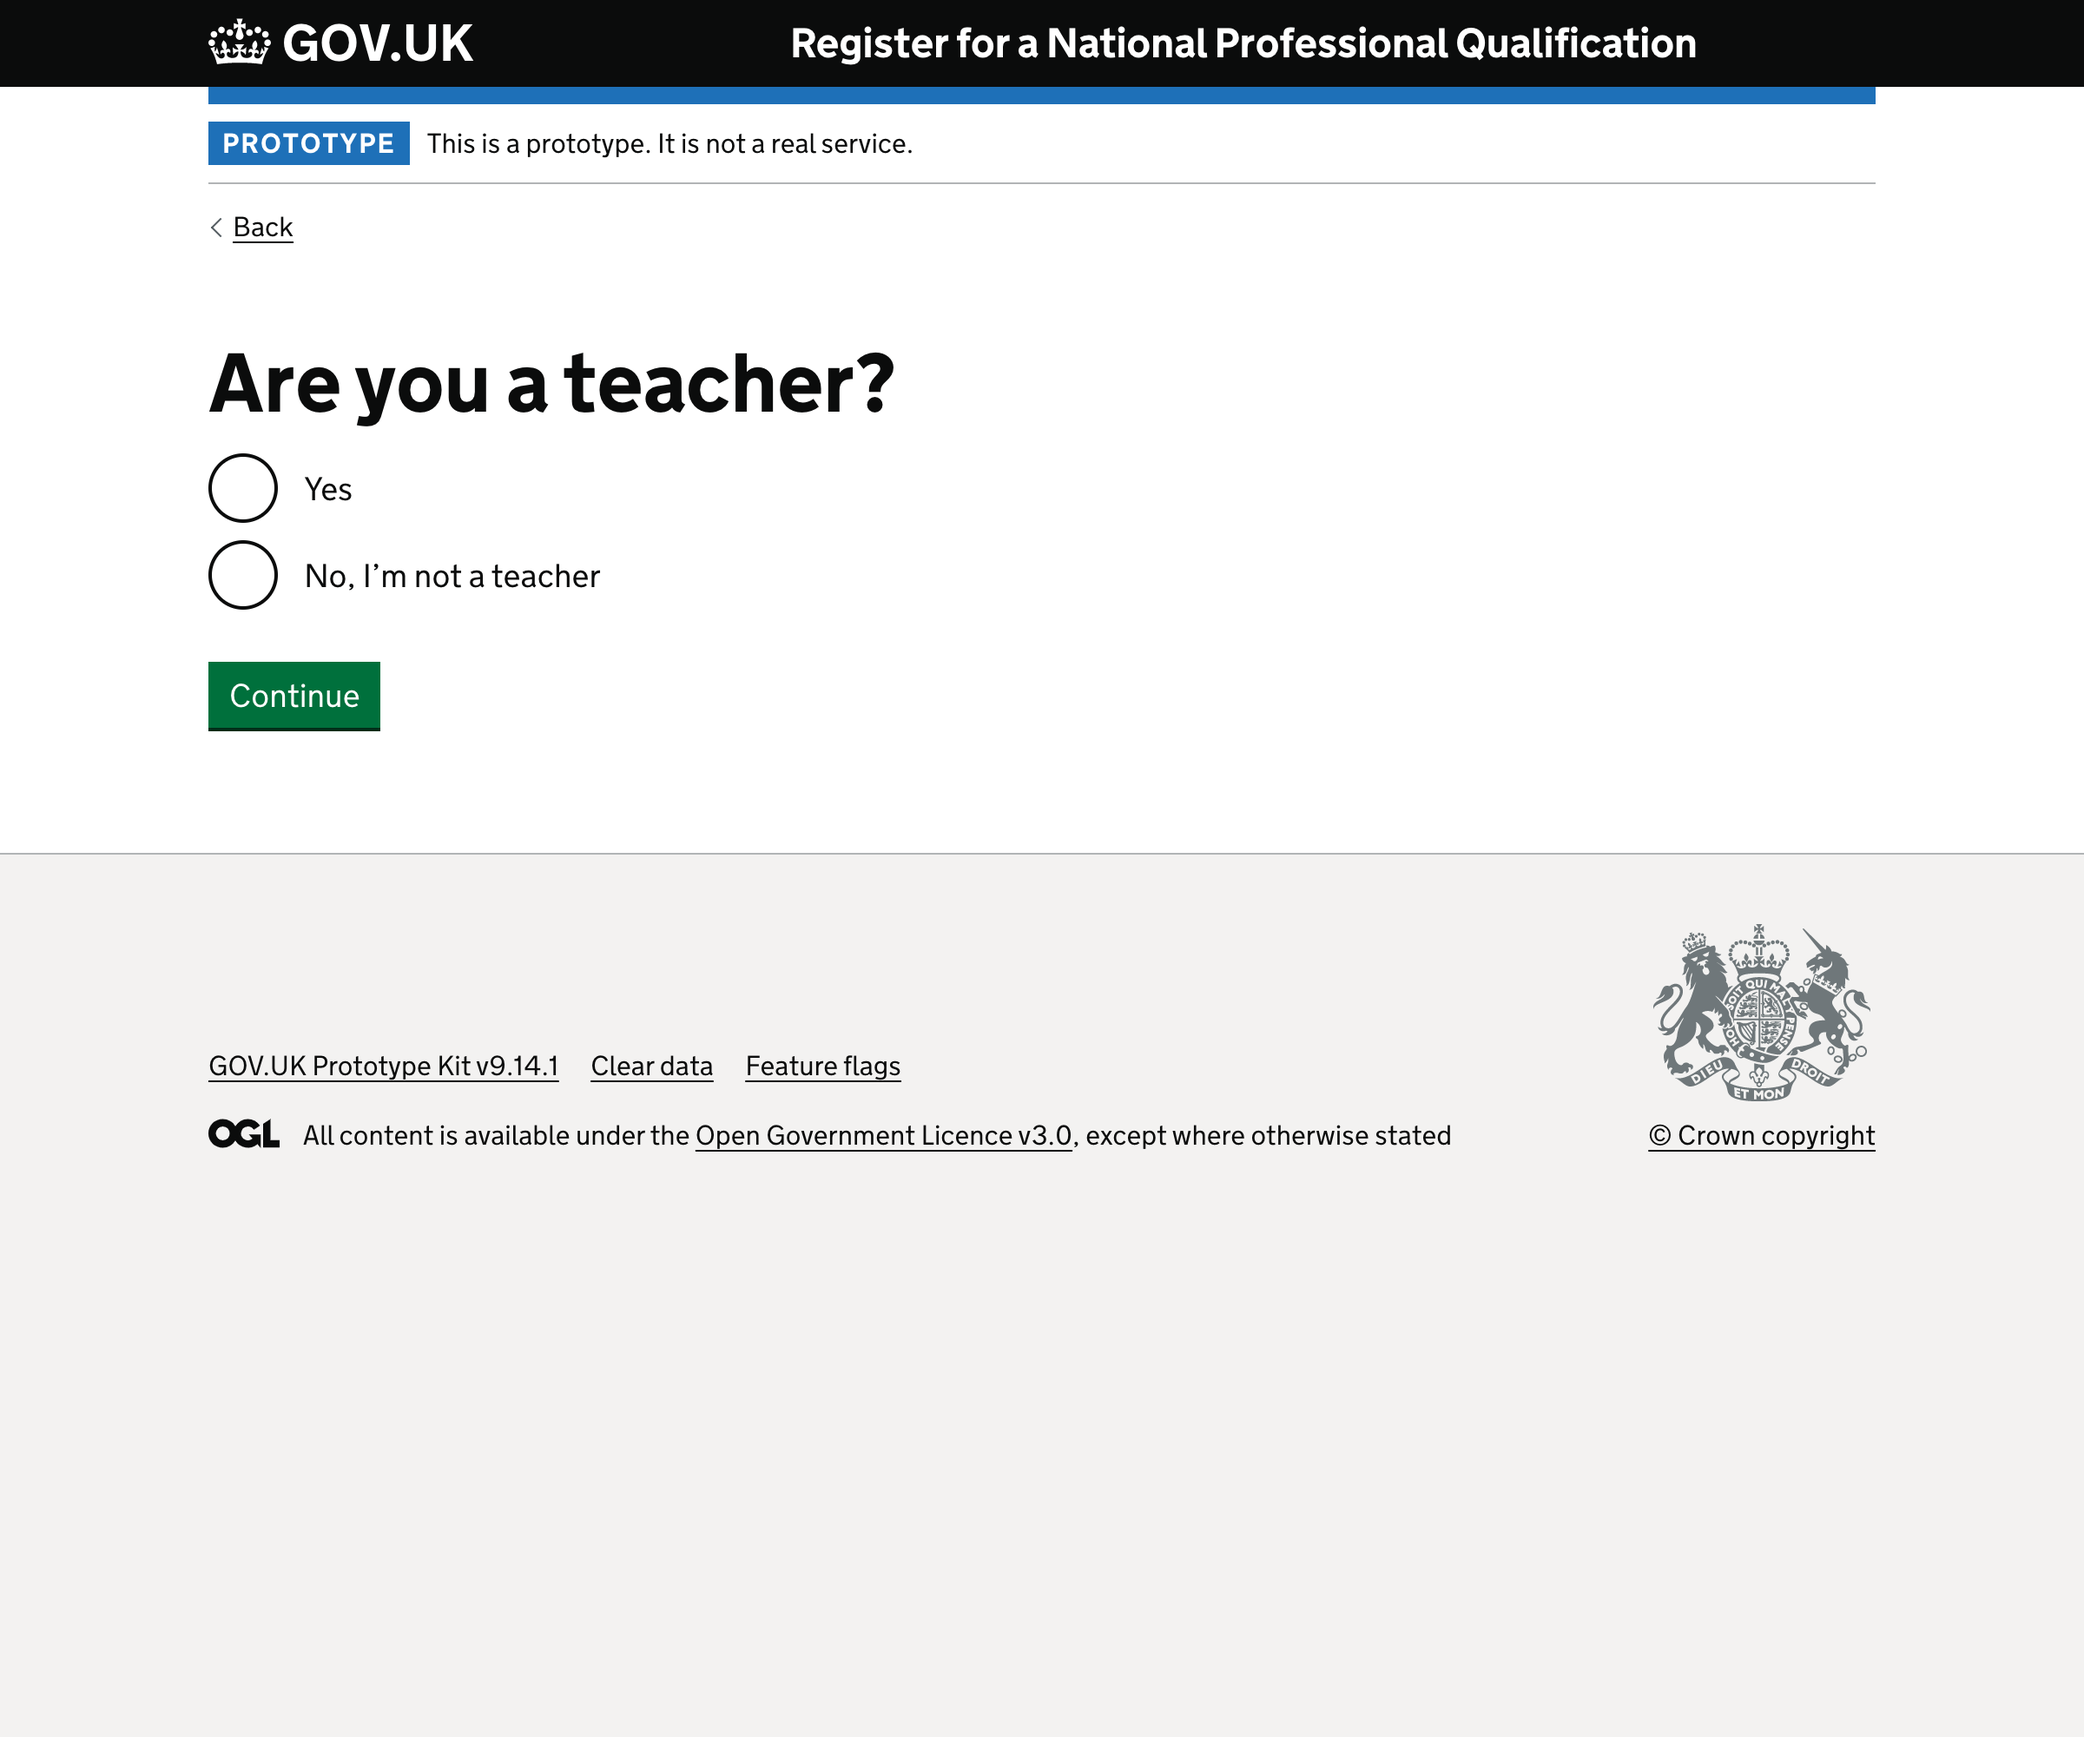
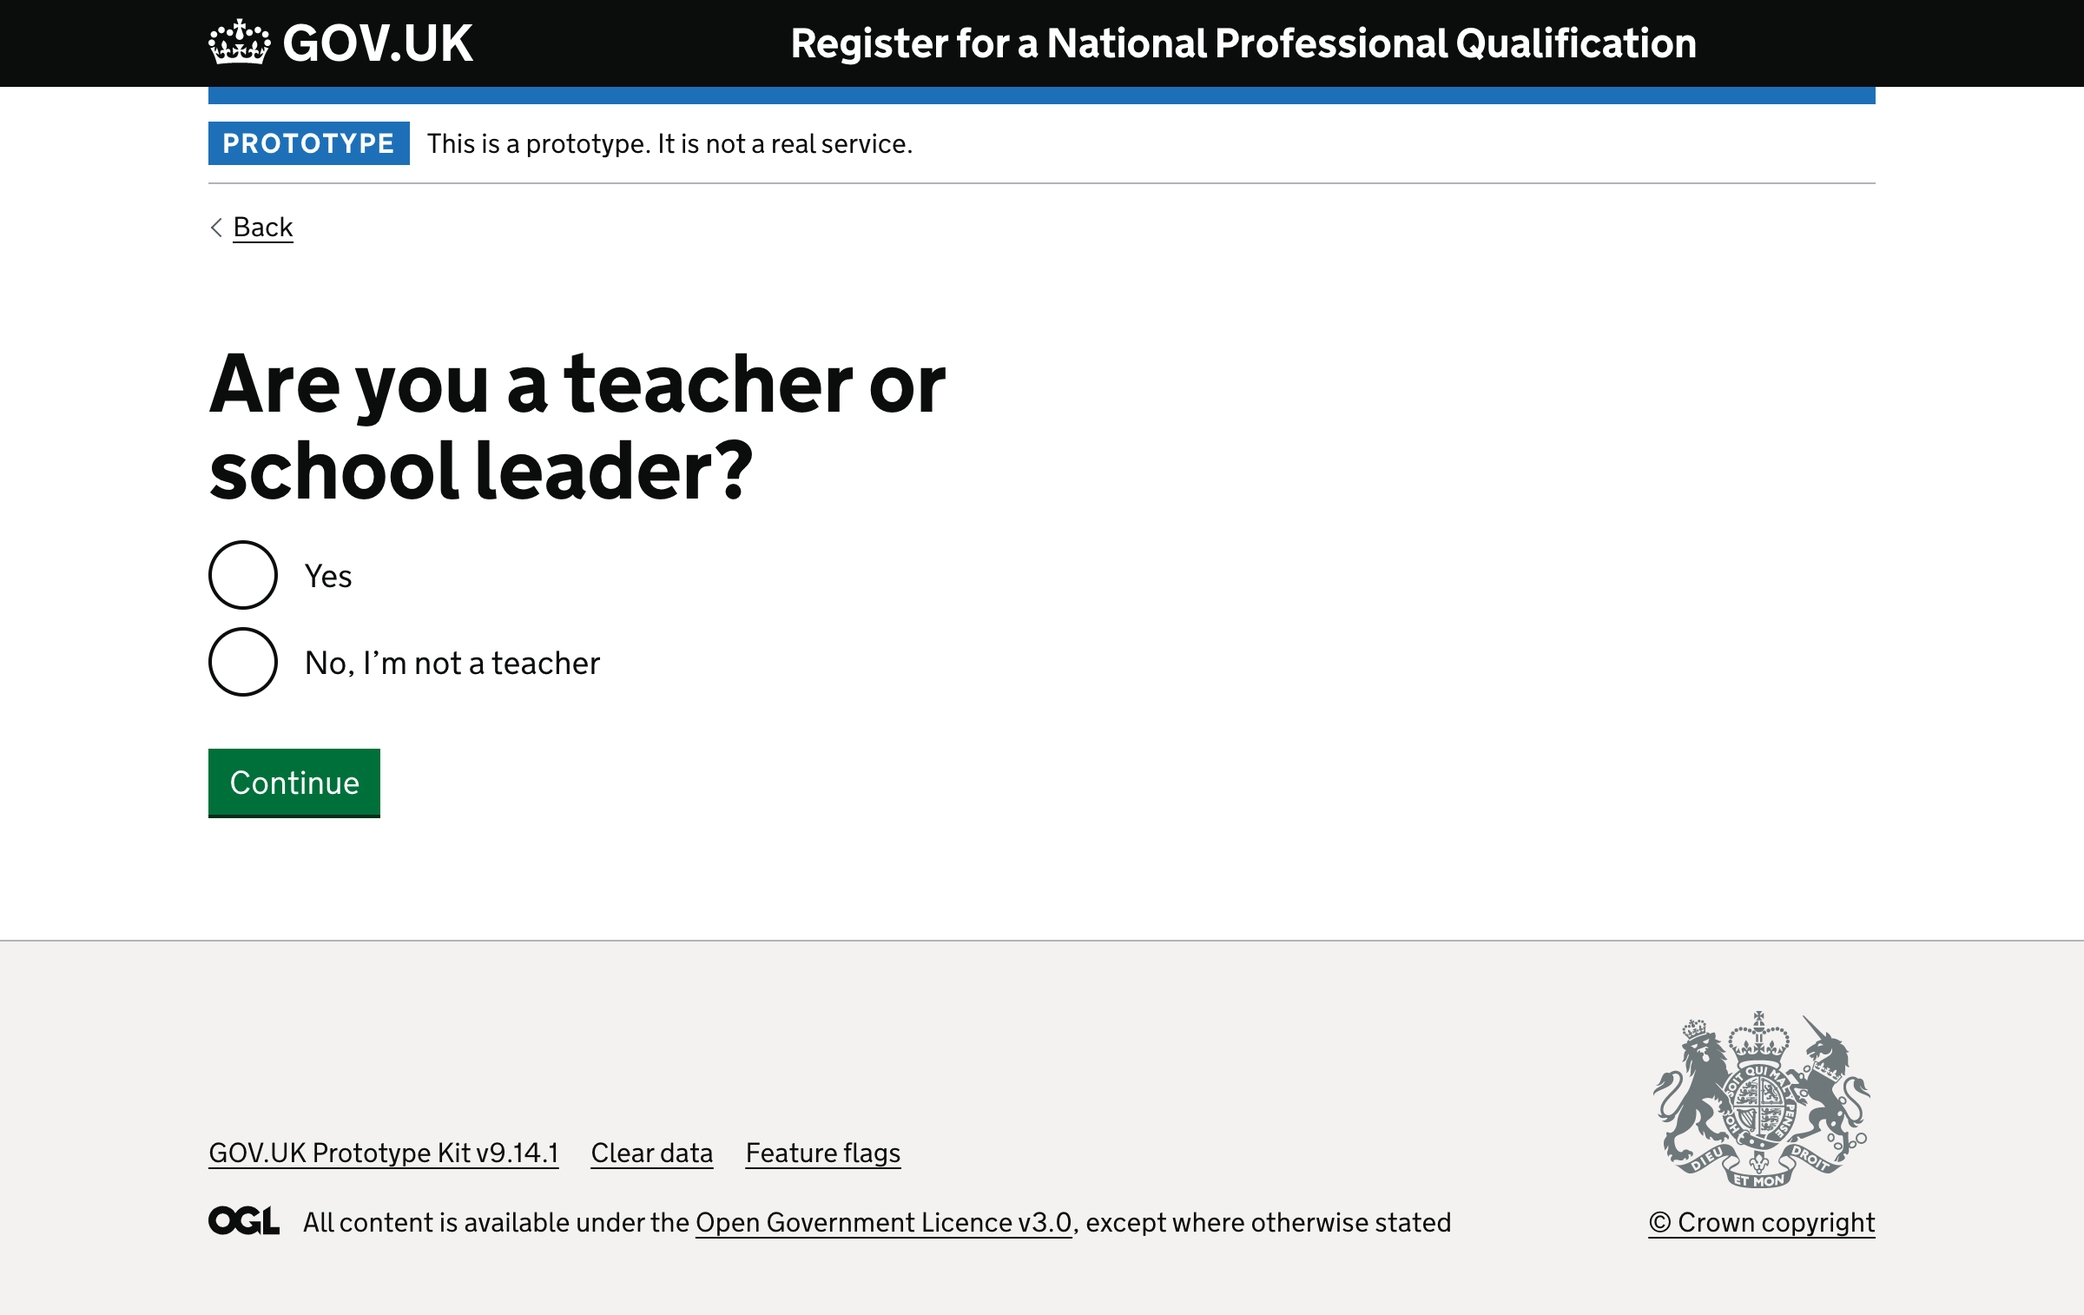
Tweak Are you a teacher title

diff --git a/app/posts/register-for-an-npq/2021-10-15-international-iteration.md b/app/posts/register-for-an-npq/2021-10-15-international-iteration.md
@@ -14,7 +14,7 @@ Following on from our [initial design](/register-for-an-npq/international-and-no
 
 We’ve split the ‘Are you a teacher in England, Jersey, Guernsey or the Isle of Man’ question into two new questions:
 
-1. Are you a teacher?
+1. Are you a teacher or school leader?
 2. Where do you teach?
 
 This has the benefit of moving the ‘Jersey, Guernsey or the Isle of Man’ edge cases out of the page titles.
@@ -36,7 +36,7 @@ Someone is considered international if they select Scotland, Wales, Northern Ire
 {% from "screenshots/macro.njk" import appScreenshots with context %}
 {{ appScreenshots({
   items: [{
-      text: "Are you a teacher?",
+      text: "Are you a teacher or school leader?",
       img: { src: "01-are-you-a-teacher.png" }
     }, {
       text: "Where do you teach?",
